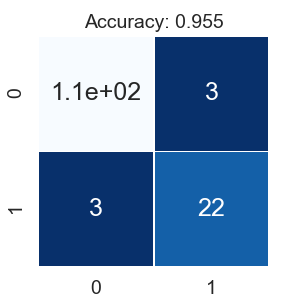
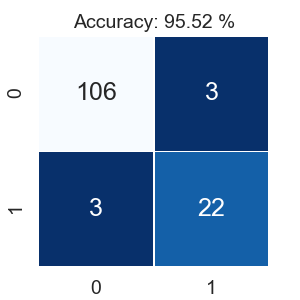
fixing string formatting in confusion matrix plot output

Changed region(s): [[0.24, 0.03, 0.78, 0.12], [0.24, 0.27, 0.48, 0.36], [0.18, 0.27, 0.21, 0.33]]

diff --git a/ml_utils.py b/ml_utils.py
@@ -97,12 +97,12 @@ def validator(splits, classifier):
 def plot_cm(cm):
     '''plot confusion matrix using seaborn for pretty output'''
     plt.figure(figsize=(3,3))
-    sns.heatmap(cm, annot=True, linewidths=.5, square = True, cmap = 'Blues_r', cbar=False, annot_kws={'fontsize':18})
+    sns.heatmap(cm, annot=True, fmt='d', linewidths=.5, square = True, cmap = 'Blues_r', cbar=False, annot_kws={'fontsize':18})
     plt.ylabel('Actual Label', fontsize=14)
     plt.xlabel('Predicted label', fontsize=14)
     plt.tick_params(axis='both', which='major', labelsize=14)
     score = cm.diagonal().sum()/cm.sum()
-    plt.title('Accuracy: {0}'.format(np.round(score,3)), size = 14)
+    plt.title('Accuracy: {0} %'.format(np.round(score*100,2)), size = 14)
     plt.show()
     plt.close()
 
